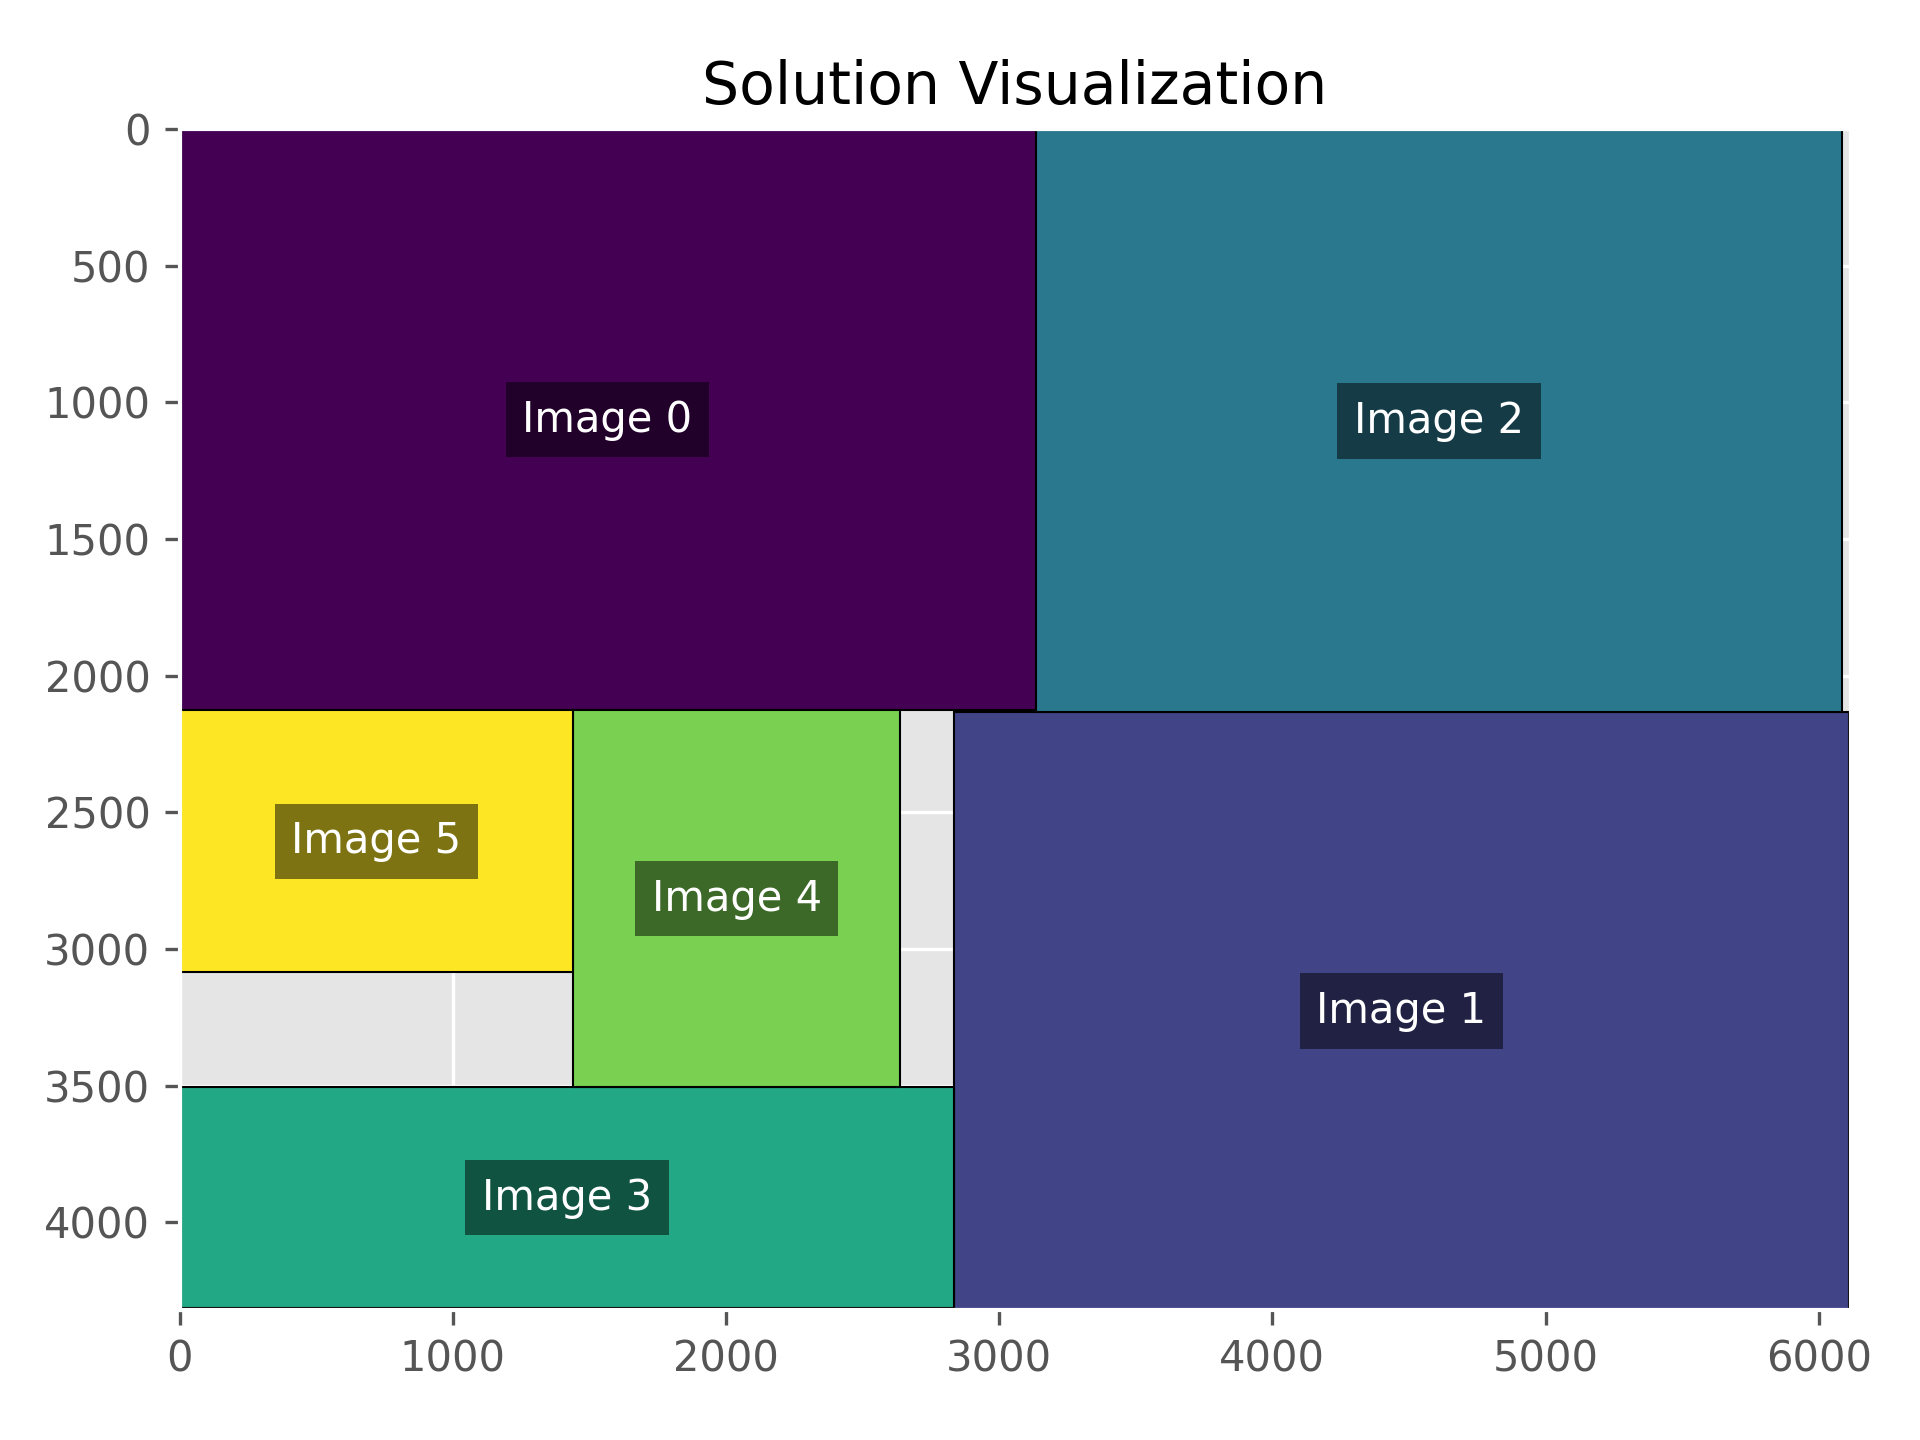
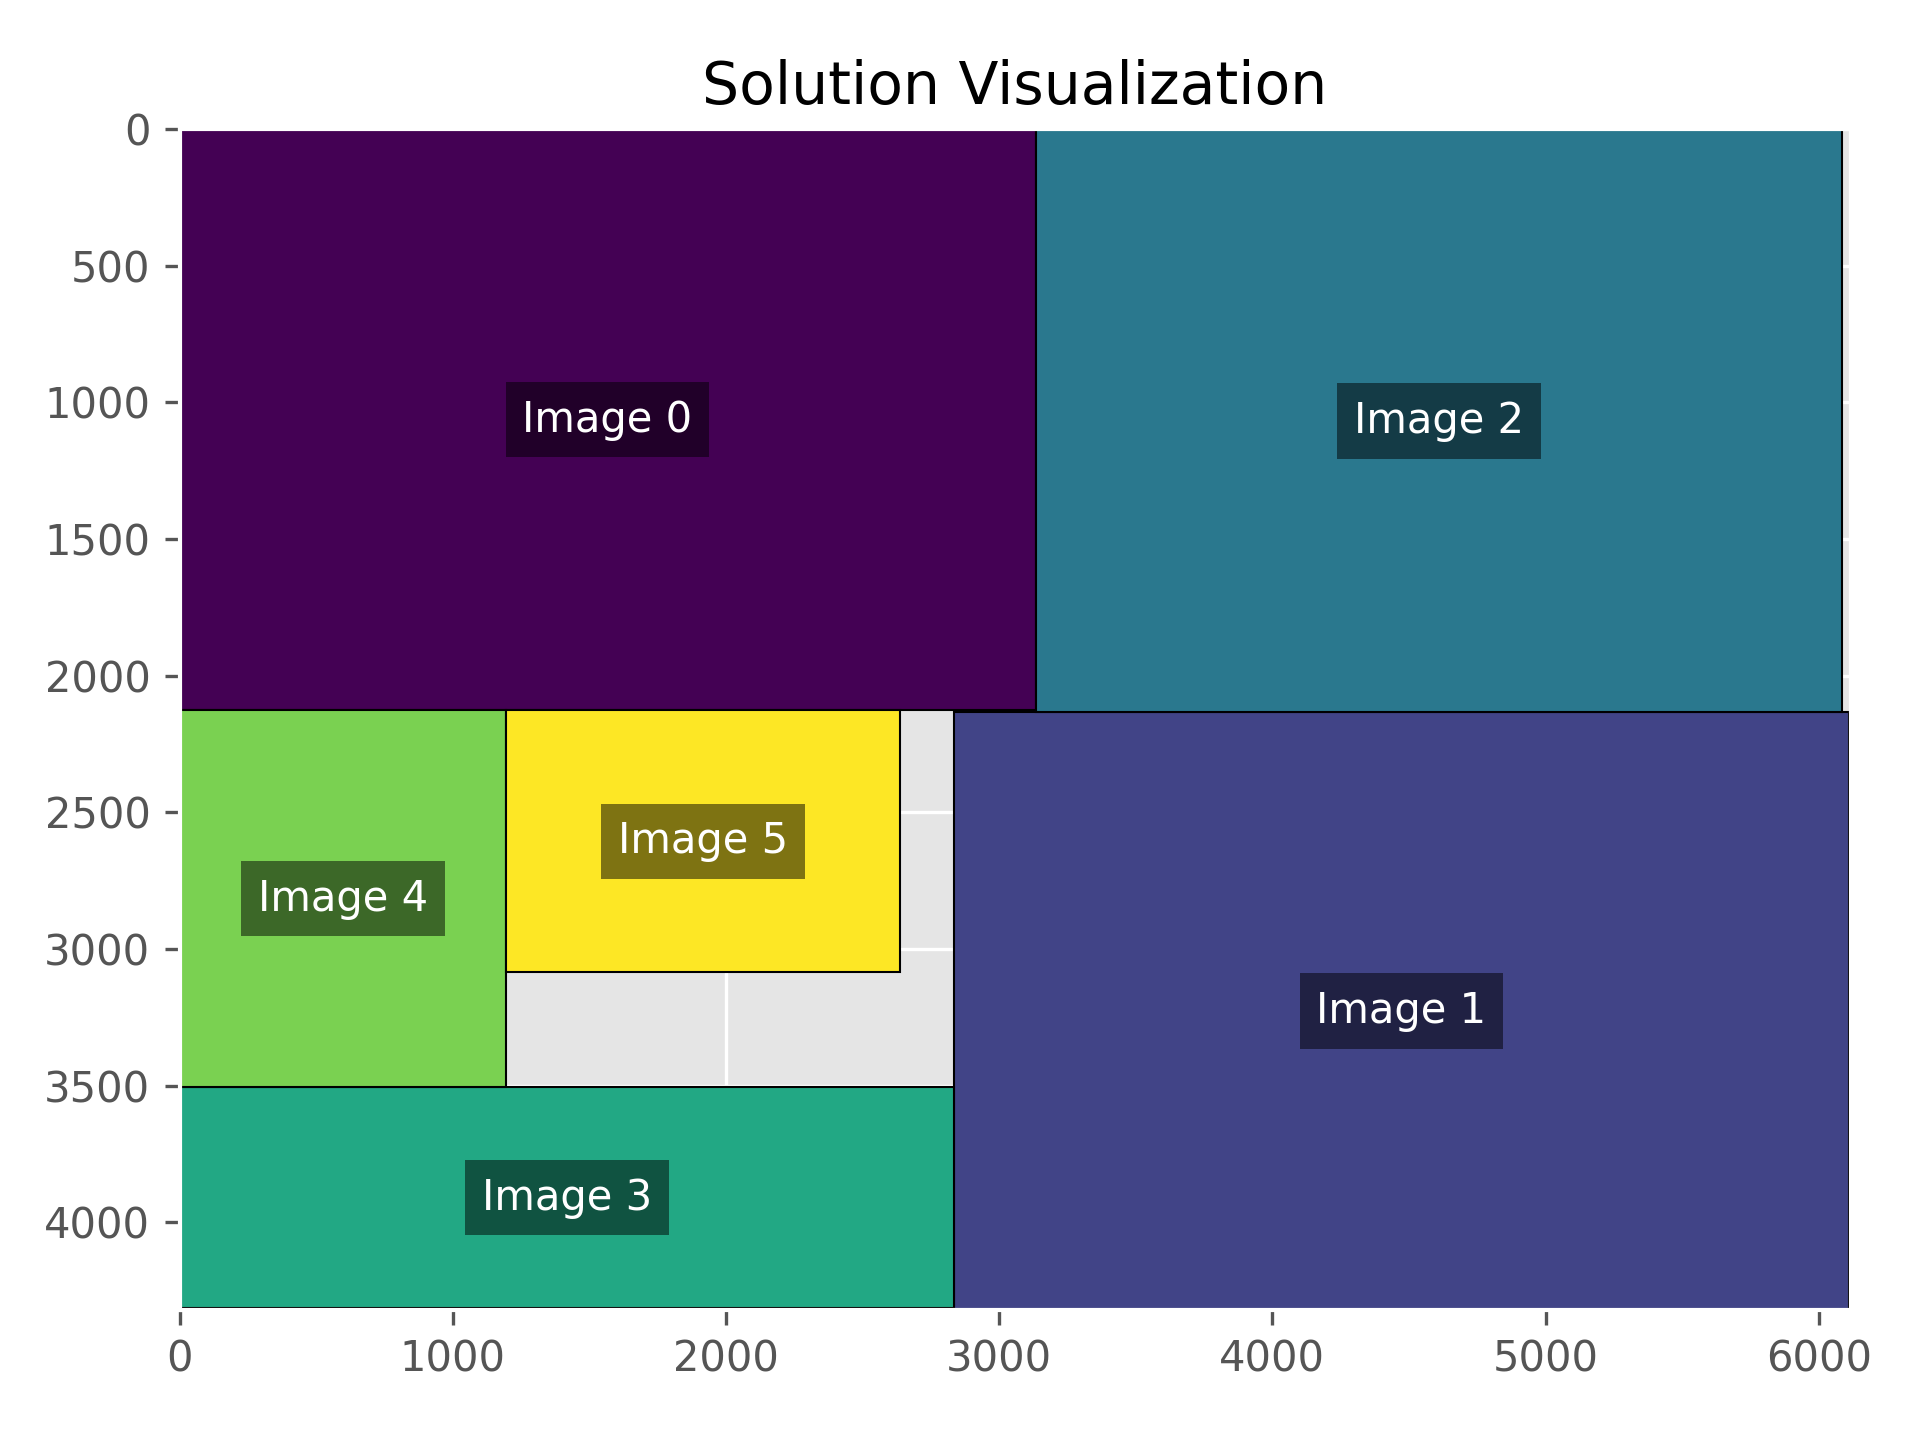
update readme and picture

Changed region(s): [[0.0938, 0.4688, 0.4688, 0.7812]]

diff --git a/README.md b/README.md
@@ -1,7 +1,66 @@
-# Project Title
+## Optimizing Image Placement on a Canvas: A Dive into Rectangle Packing
+Have you ever tried to efficiently arrange a collection of images on a canvas, attempting to minimize wasted space? It might seem like a simple challenge, but beneath the surface, it's a classic computational problem that's surprisingly intricate. I recently embarked on a journey to find an optimal arrangement for a set of images, and along the way, I learned about the deep history and complexity of this fascinating problem.
 
-## Description
-Provide a brief description of your project here.
+
+## Structure of the Solution: A Creative Twist on Two-Stage Optimization
+When faced with the challenge of minimizing unused space while arranging images on a canvas, we might be tempted to think it's a straightforward problem. However, the solution I've developed adds a dash of ingenuity to this seemingly simple puzzle. It's a testament to how a creative approach can transform a complex problem into an engaging and solvable challenge.
+
+### Finding the Optimal Canvas Size: Not Just Any Binary Search
+The first stage of this journey uses a binary search method, but not in the way you might expect. This isn't your run-of-the-mill binary search; it's a clever adaptation that seeks the most 'square-like' canvas size. Why square-like? Because it often leads to the most aesthetically pleasing and space-efficient arrangements.
+
+And here's where it gets interesting: if we hit a roadblock and can't fit all the pictures, we don't just give up. Instead, we take a step back, remove the largest picture, and try again. This iterative process, much like an artist trying different compositions, ensures we find a canvas size that's just right.
+### Optimal Placement of Images on the Canvas: Constraint Programming with a Twist
+The second stage is where constraint programming shines. But it's not just about avoiding overlaps; it's about doing so in a way that's both efficient and visually appealing. We're not merely cramming images onto a canvas; we're orchestrating their placement with precision.
+
+What's more, we introduce the option of scaling images. This is not just scaling for the sake of it, but a strategic move to make the best use of available space. It’s akin to finding the perfect puzzle piece – sometimes a slight adjustment can make all the difference.
+
+
+## Tools Used: OR-Tools and its Solver
+OR-Tools is Google's open-source software suite for optimization, which is utilized to solve the given constraint optimization problem.
+
+`cp_model.CpModel()` creates an instance of the constraint programming model.
+`cp_model.CpSolver()` is used to solve the defined model.
+
+
+## Constraints and Objective Functions
+### Constraints:
+Image Boundaries: Ensure that images do not go outside the canvas boundary.
+Non-overlapping: Images should not overlap each other.
+Scaling: If scaling is allowed, images can be resized within a specified range.
+
+
+### Objective Functions:
+Unused Space: Minimize the unused space on the canvas.
+Max Dimension: Minimize the maximum dimension of the bounding box containing all images.
+Perimeter: Minimize the sum of the width and height of the bounding box containing all images.
+Difference in Width and Height: Minimize the absolute difference between the width and height of the bounding box containing all images.
+
+## Binary Search for Dimensions
+
+In this approach, the size of the bounding box (or canvas) isn't decreased in fixed steps. Instead, a binary search technique is employed. This involves defining a range for the canvas dimensions and trying the midpoint size of this range. Depending on whether a solution is found with this size or not, the range of canvas dimensions is adjusted. This method is more efficient than simply reducing the size in fixed steps, as it can converge to the optimal size more quickly.
+
+
+## Dynamic Adjustment of Alpha Range
+
+Instead of using a fixed range for the alpha values (scaling factors for images), the range is dynamically adjusted based on the current bounding box size. The idea is to allow smaller scaling for larger bounding boxes and larger scaling for smaller bounding boxes.
+
+
+## Initial Arrangement
+
+Instead of starting with a random arrangement of images, a heuristic is used to determine an initial arrangement. This method sorts the images by their area in descending order, with the idea being that placing the largest images first might help the solver find a better solution more quickly.
+
+
+## Parallel Solving
+
+OR-Tools provides capabilities to solve problems in parallel. This means that if you have a multi-core machine, you can use these capabilities to potentially find solutions faster by leveraging multiple CPU cores simultaneously.
+
+
+## Results
+
+The following image showcases the solution of the optimization problem. It represents the optimal placement of images on the canvas, achieved through the described methodologies. This visualization helps in understanding how the images are arranged to minimize unused space, adhering to the constraints and objective functions defined in the model.
+
+![Solution Visualization](solution_visualization.png)
+
 
 ## Installation and Setup
 ### Prerequisites
@@ -14,9 +73,9 @@ If you don't have PDM installed, run:
 ```bash
 python3 -m pip install --user pdm
 
-git clone [Your Repository URL]
+git clone https://github.com/abbas-tari/2d-packing-optimization.git
 
-cd [Your Project Directory]
+cd 2d-packing-optimization
 
 pdm install
 pdm run python main.py
